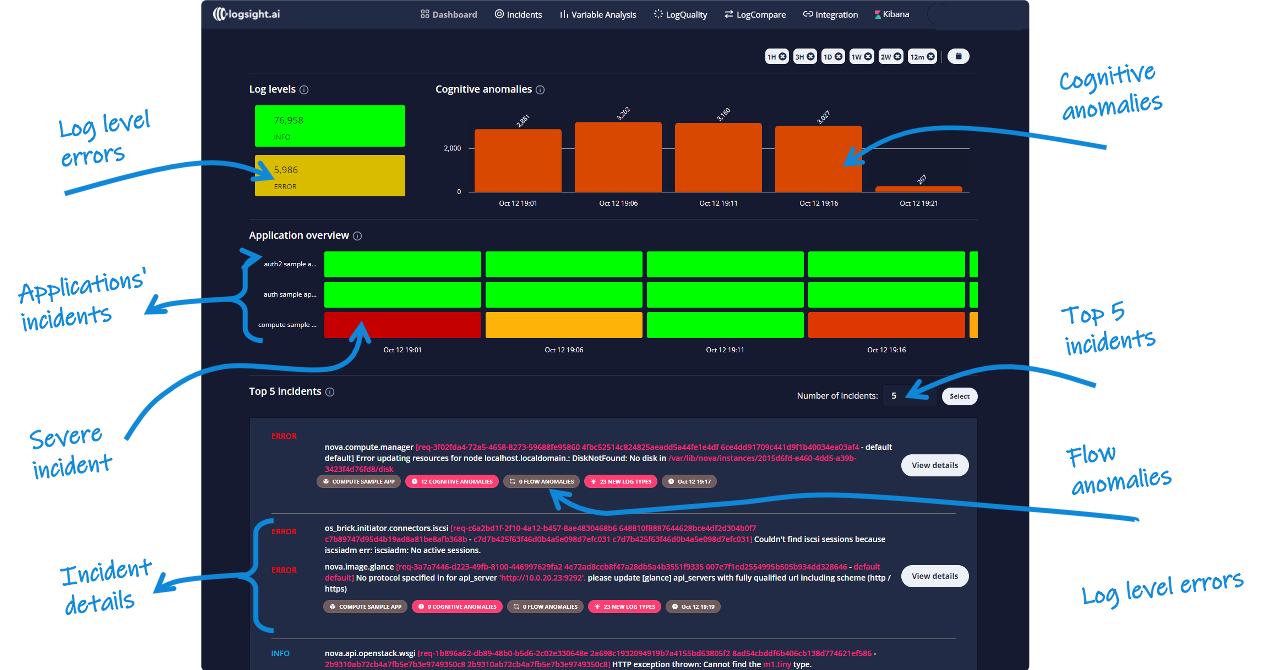
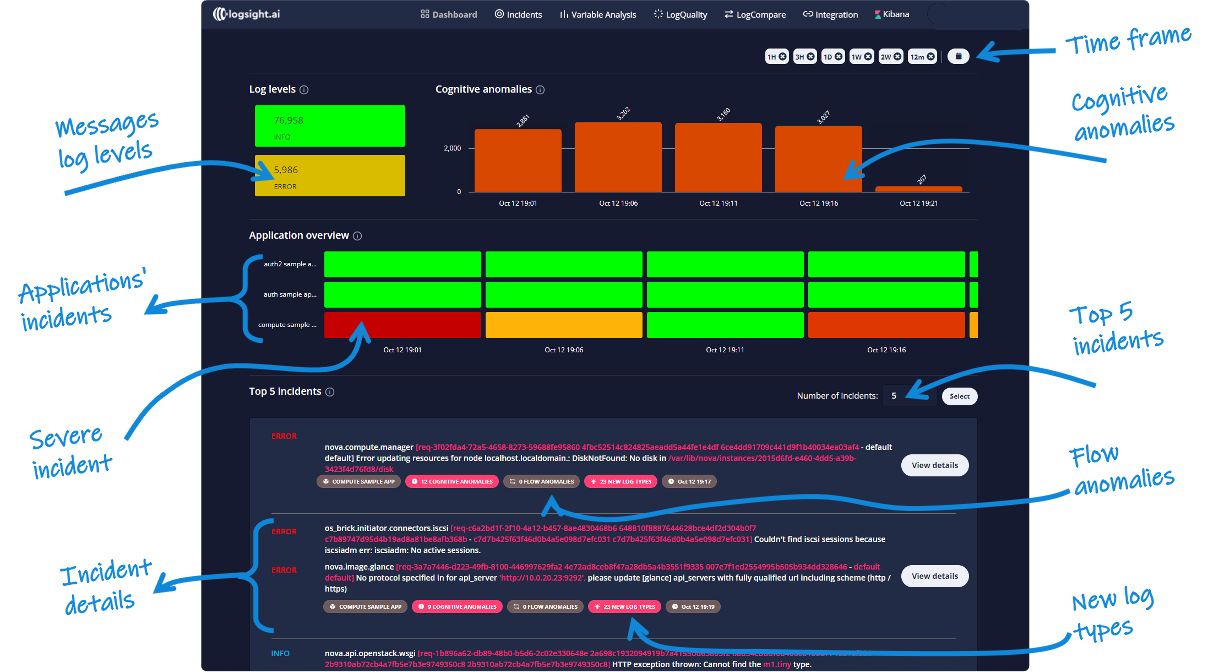
Updated Detect incidents sidebar sections

diff --git a/docs/get_started/overview.md b/docs/get_started/overview.md
@@ -1,9 +1,12 @@
 # Overview
 
-> `Logsight.ai` is an **intelligence platform which infuses AI to DevOps**
+> `logsight.ai` is an **intelligence platform which infuses AI to DevOps**
 
-`Logsight.ai` is the next generation of proactive troubleshooting [AIOps](https://en.wikipedia.org/wiki/Artificial_Intelligence_for_IT_Operations) platforms which rely on Deep Learning and AI-powered Log Analytics to discovery log data insights. Our platform delivers an 
-observability and troubleshooting platform for modern enterprise engineering teams, helping them to proactively discover emerging failure, solve issues more quickly. 
+`logsight.ai` is the next generation of [AIOps](https://en.wikipedia.org/wiki/Artificial_Intelligence_for_IT_Operations) platforms which rely on Deep Learning and AI-powered log analytics to manage DevOps assembly lines to enable continuous delivery and proactive troubleshooting.
+
+<div align=center>
+<img width="800" src="/get_started/ai_driven_devops.png"/>
+</div>
 
 + **[Code Inspector](/analyze_code/code_inspector)** is an AI-powered code reviewer trained to find logging statements with a low quality which are typically hard for a human to identify. Once 
   statements are located, Code 
@@ -18,3 +21,7 @@ enables to provide more detailed explainations of the root cause of software fai
 
 To get started, contact our customer support team to start an enterprise proof of concept (PoC) or sign up directly from our website.
 `logsight.ai` is a cloud-based software-as-a-service (SaaS) solution.
+
+> [!NOTE]
+> By 2023, 40% of DevOps teams will use application and infrastructure monitoring platforms with integrated AI for IT operations platforms
+> (source Gartner)

diff --git a/docs/detect_incidents/dashboard.md b/docs/detect_incidents/dashboard.md
@@ -1,8 +1,30 @@
 # Incident Dashboard
 
-> The incident dashboard provides a bird's-eye view of the health of all applications managed by `logsight.ai`
+> The incident dashboard provides a bird's-eye view of the health of all your applications managed by `logsight.ai`
 
+
+`Time frame` Use the time panel to select the time frame in which logging analytics should run. Alternatively, you can select one of the predefined ranges. 
+
+`Log levels` A log level indicates how important a given log message is. The most common logging levels are DEBUG, INFO, WARN, ERROR and FATAL ([see pag. 11 of syslog specification](https://www.rfc-editor.org/rfc/rfc5424)).
+
+`Cognitive anomalies` refer to log messages which are correlated with software failures.
+In contrast to log level anomalies, cognitive anomalies are identified by inferring the semantics meaning of messages.
+
+`Applications' incidents` The heat map shows for each registered application its health status. 
+Red cells indicate the presence of incidents, while green cells represent healthy applications. 
+The severity score can be seen by hovering over cells. 
+
+<br>
 
 ![Logs](./dashboard.png ':size=1200')
 
-`Applications' incidents` shows XXX
+<br>
+
+`Top incidents` ranks the *k* incidents by the highest severity score.
+
+`Incident details` shows the most important log messages which are part of an incident. 
+The button *View details* provides further information about the incident.
+
+`Flow anomalies` are changes observed in sequences of log messages.
+
+`New log types` identifies one or more log type which were not observed during the normal operation of an application. They only occurred during the anomaly time frame.

diff --git a/docs/detect_incidents/incidents.md b/docs/detect_incidents/incidents.md
@@ -1,0 +1,21 @@
+# Incidents
+
+> XXXX
+
+
+`Time frame` Use the time panel to select the time frame in which logging analytics should run. Alternatively, you can select one of the predefined ranges. 
+
+`Applications' incidents` The heat map shows for each registered application its health status. 
+Red cells indicate the presence of incidents, while green cells represent healthy applications. 
+The severity score can be seen by hovering over cells. 
+
+<br>
+
+![Logs](./incidents.png ':size=1200')
+
+<br>
+
+`Critical anomalies` are cognitive anomalies which are also new types or that are associated with flow anomalies.
+
+`Cognitive anomalies` refer to log messages which are correlated with software failures.
+In contrast to log level anomalies, cognitive anomalies are identified by inferring the semantics meaning of messages.

diff --git a/docs/_glossary.md b/docs/_glossary.md
@@ -1,6 +1,8 @@
 
 # Key Concepts
 
+#### Incident dashboard
+
 #### Incident
 An unplanned interruption to or quality reduction of an IT service.
 
@@ -18,6 +20,14 @@ Errors should be an indication that the application itself is broken in some way
 
 #### Linguistic quality
 
-#### Log types
+#### Log type
+A log type (or log template) is a structured description of an unstructured log message. 
+It typically includes variables (e.g., IP address, service name) and a textual description.
+Groups of log messages are clustered into a log template representing a state of a system.
 
 #### Cognitive anomalies
+
+
+#### Severity score
+
+

diff --git a/docs/detect_incidents/incident_detector.md b/docs/detect_incidents/incident_detector.md
@@ -36,3 +36,8 @@ Logsight Incident Detection takes a different approach. It extracts the semantic
 <div align=center>
 <img width="500" src="/detect_incidents/cognitive_analysis.png"/>
 </div>
+
+
+> [!NOTE]
+> Central log management is still very relevant today and can be a key, but undervalued, tool for an organization's threat detection and response capabilities
+> (source Gartner)

diff --git a/docs/_sidebar.md b/docs/_sidebar.md
@@ -13,6 +13,7 @@
 - **Detect incidents**
   - [Incident Detector](/detect_incidents/incident_detector.md) 
   - [Dashboard](/detect_incidents/dashboard.md) 
+  - [Incidents](/detect_incidents/incidents.md) 
   - [Using the SDK](/detect_incidents/detect_incidents_using_the_sdk.md)
  
 - **Monitor deployments**

diff --git a/README.md b/README.md
@@ -3,10 +3,18 @@
 
 ## Install docsify locally
 
+### Linux
 ```bash
 sudo apt install npm
 sudo npm i docsify-cli -g
 ```
+
+### MacOS
+```bash
+brew install node
+sudo npm i docsify-cli -g
+```
+
 
 ## Clone and serve
 
